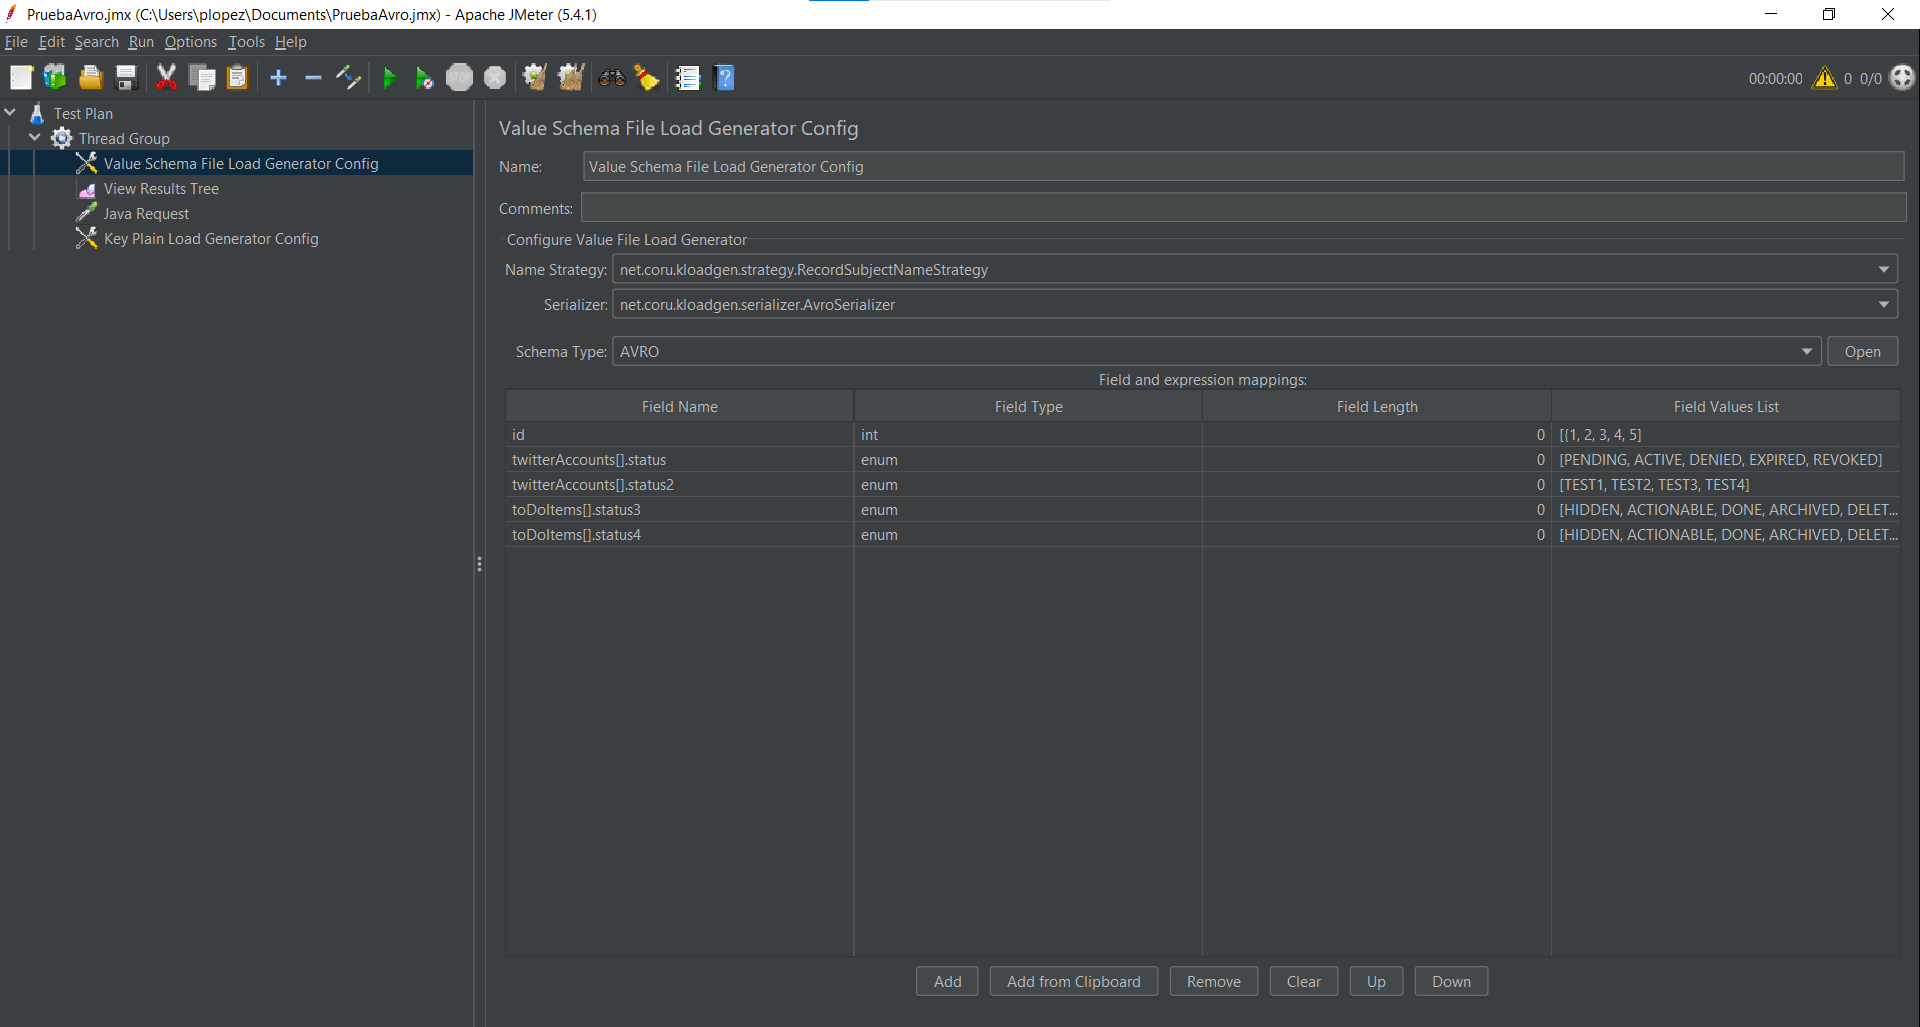
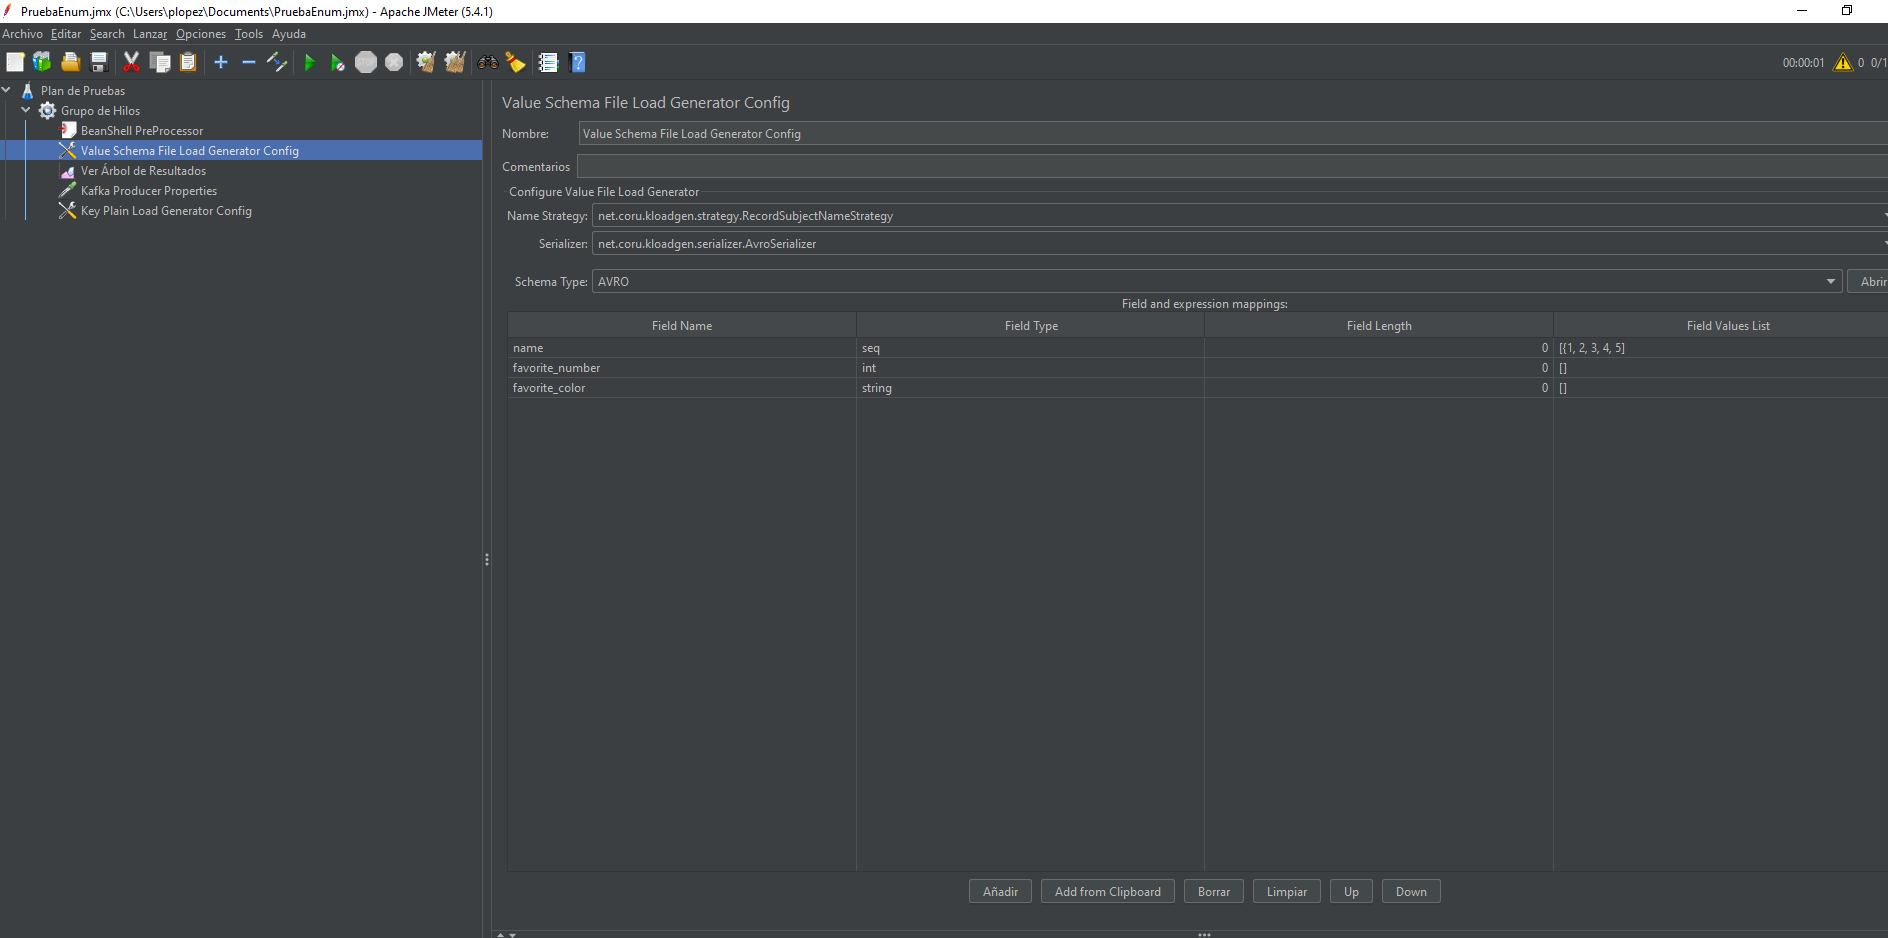
Changes to sequence behaviour

diff --git a/src/main/java/net/coru/kloadgen/randomtool/random/RandomObject.java b/src/main/java/net/coru/kloadgen/randomtool/random/RandomObject.java
@@ -56,105 +56,108 @@ public class RandomObject {
   public Object generateRandom(String fieldType, Integer valueLength, List<String> fieldValueList,
       Map<ConstraintTypeEnum, String> constrains) {
     Object value;
-    if (!fieldValueList.isEmpty() && !StringUtils.isEmpty(fieldValueList.get(0)) && fieldValueList.get(0).charAt(0) == "{".charAt(0)){
-      fieldValueList.set(0, fieldValueList.get(0).substring(1));
-      return generateSequenceForFieldValueList(fieldValueList.get(0), fieldType, fieldValueList, context );
-    }
-    switch (fieldType) {
-      case ValidTypeConstants.STRING:
-        value = getStringValueOrRandom(valueLength, fieldValueList, constrains);
-        break;
-      case ValidTypeConstants.INT:
-        try {
-          value = getIntegerValueOrRandom(valueLength, fieldValueList, constrains).intValueExact();
-        } catch (ArithmeticException exception) {
-          value = Integer.MAX_VALUE;
+    if ("seq".equalsIgnoreCase(fieldType)) {
+      if (!fieldValueList.isEmpty() && '{' == fieldValueList.get(0).charAt(0)) {
+        fieldValueList.set(0, fieldValueList.get(0).substring(1));
+        return generateSequenceForFieldValueList(fieldValueList.get(0), fieldType, fieldValueList, context);
+      }
+      value = generateSeq(fieldValueList.get(0), fieldType, fieldValueList, context);
+    }else {
+        switch (fieldType) {
+          case ValidTypeConstants.STRING:
+            value = getStringValueOrRandom(valueLength, fieldValueList, constrains);
+            break;
+          case ValidTypeConstants.INT:
+            try {
+              value = getIntegerValueOrRandom(valueLength, fieldValueList, constrains).intValueExact();
+            } catch (ArithmeticException exception) {
+              value = Integer.MAX_VALUE;
+            }
+            break;
+          case ValidTypeConstants.LONG:
+            try {
+              value = getIntegerValueOrRandom(valueLength, fieldValueList, constrains).longValueExact();
+            } catch (ArithmeticException exception) {
+              value = Long.MAX_VALUE;
+            }
+            break;
+          case ValidTypeConstants.SHORT:
+            try {
+              value = getIntegerValueOrRandom(valueLength, fieldValueList, constrains).shortValueExact();
+            } catch (ArithmeticException exception) {
+              value = Short.MAX_VALUE;
+            }
+            break;
+          case ValidTypeConstants.DOUBLE:
+            try {
+              value = getDecimalValueOrRandom(valueLength, fieldValueList, constrains).doubleValue();
+            } catch (ArithmeticException exception) {
+              value = Double.MAX_VALUE;
+            }
+            break;
+          case ValidTypeConstants.FLOAT:
+            try {
+              value = getDecimalValueOrRandom(valueLength, fieldValueList, constrains).floatValue();
+            } catch (ArithmeticException exception) {
+              value = Float.MAX_VALUE;
+            }
+            break;
+          case ValidTypeConstants.BYTES:
+            try {
+              value = getIntegerValueOrRandom(valueLength, Collections.emptyList(), Collections.emptyMap()).byteValueExact();
+            } catch (ArithmeticException exception) {
+              value = Byte.MAX_VALUE;
+            }
+            break;
+          case ValidTypeConstants.TIMESTAMP:
+          case ValidTypeConstants.LONG_TIMESTAMP:
+          case ValidTypeConstants.STRING_TIMESTAMP:
+            value = getTimestampValueOrRandom(fieldType, fieldValueList);
+            break;
+          case ValidTypeConstants.UUID:
+            value = getUUIDValueOrRandom(fieldValueList);
+            break;
+          case ValidTypeConstants.BOOLEAN:
+            value = getBooleanValueOrRandom(fieldValueList);
+            break;
+          case ValidTypeConstants.ENUM:
+            value = getEnumValueOrRandom(fieldValueList);
+            break;
+          case ValidTypeConstants.INT_DATE:
+            value = getDateValueOrRandom(fieldValueList);
+            break;
+          case ValidTypeConstants.INT_TIME_MILLIS:
+            value = getTimeMillisValueOrRandom(fieldValueList);
+            break;
+          case ValidTypeConstants.LONG_TIME_MICROS:
+            value = getTimeMicrosValueOrRandom(fieldValueList);
+            break;
+          case ValidTypeConstants.LONG_TIMESTAMP_MILLIS:
+            value = getTimestampMillisValueOrRandom(fieldValueList);
+            break;
+          case ValidTypeConstants.LONG_TIMESTAMP_MICROS:
+            value = getTimestampMicrosValueOrRandom(fieldValueList);
+            break;
+          case ValidTypeConstants.LONG_LOCAL_TIMESTAMP_MILLIS:
+            value = getLocalTimestampMillisValueOrRandom(fieldValueList);
+            break;
+          case ValidTypeConstants.LONG_LOCAL_TIMESTAMP_MICROS:
+            value = getLocalTimestampMicrosValueOrRandom(fieldValueList);
+            break;
+          case ValidTypeConstants.STRING_UUID:
+            value = getUUIDValueOrRandom(fieldValueList);
+            break;
+          case ValidTypeConstants.BYTES_DECIMAL:
+            value = getDecimalValueOrRandom(fieldValueList, constrains);
+            break;
+          case ValidTypeConstants.FIXED_DECIMAL:
+            value = getDecimalValueOrRandom(fieldValueList, constrains);
+            break;
+          default:
+            value = fieldType;
+            break;
         }
-        break;
-      case ValidTypeConstants.LONG:
-        try {
-          value = getIntegerValueOrRandom(valueLength, fieldValueList, constrains).longValueExact();
-        } catch (ArithmeticException exception) {
-          value = Long.MAX_VALUE;
-        }
-        break;
-      case ValidTypeConstants.SHORT:
-        try {
-          value = getIntegerValueOrRandom(valueLength, fieldValueList, constrains).shortValueExact();
-        } catch (ArithmeticException exception) {
-          value = Short.MAX_VALUE;
-        }
-        break;
-      case ValidTypeConstants.DOUBLE:
-        try {
-          value = getDecimalValueOrRandom(valueLength, fieldValueList, constrains).doubleValue();
-        } catch (ArithmeticException exception) {
-          value = Double.MAX_VALUE;
-        }
-        break;
-      case ValidTypeConstants.FLOAT:
-        try {
-          value = getDecimalValueOrRandom(valueLength, fieldValueList, constrains).floatValue();
-        } catch (ArithmeticException exception) {
-          value = Float.MAX_VALUE;
-        }
-        break;
-      case ValidTypeConstants.BYTES:
-        try {
-          value = getIntegerValueOrRandom(valueLength, Collections.emptyList(), Collections.emptyMap()).byteValueExact();
-        } catch (ArithmeticException exception) {
-          value = Byte.MAX_VALUE;
-        }
-        break;
-      case ValidTypeConstants.TIMESTAMP:
-      case ValidTypeConstants.LONG_TIMESTAMP:
-      case ValidTypeConstants.STRING_TIMESTAMP:
-        value = getTimestampValueOrRandom(fieldType, fieldValueList);
-        break;
-      case ValidTypeConstants.UUID:
-        value = getUUIDValueOrRandom(fieldValueList);
-        break;
-      case ValidTypeConstants.BOOLEAN:
-        value = getBooleanValueOrRandom(fieldValueList);
-        break;
-      case ValidTypeConstants.ENUM:
-        value = getEnumValueOrRandom(fieldValueList);
-        break;
-      case ValidTypeConstants.INT_DATE:
-        value = getDateValueOrRandom(fieldValueList);
-        break;
-      case ValidTypeConstants.INT_TIME_MILLIS:
-        value = getTimeMillisValueOrRandom(fieldValueList);
-        break;
-      case ValidTypeConstants.LONG_TIME_MICROS:
-        value = getTimeMicrosValueOrRandom(fieldValueList);
-        break;
-      case ValidTypeConstants.LONG_TIMESTAMP_MILLIS:
-        value = getTimestampMillisValueOrRandom(fieldValueList);
-        break;
-      case ValidTypeConstants.LONG_TIMESTAMP_MICROS:
-        value = getTimestampMicrosValueOrRandom(fieldValueList);
-        break;
-      case ValidTypeConstants.LONG_LOCAL_TIMESTAMP_MILLIS:
-        value = getLocalTimestampMillisValueOrRandom(fieldValueList);
-        break;
-      case ValidTypeConstants.LONG_LOCAL_TIMESTAMP_MICROS:
-        value = getLocalTimestampMicrosValueOrRandom(fieldValueList);
-        break;
-      case ValidTypeConstants.STRING_UUID:
-        value = getUUIDValueOrRandom(fieldValueList);
-        break;
-      case ValidTypeConstants.BYTES_DECIMAL:
-        value = getDecimalValueOrRandom(fieldValueList, constrains);
-        break;
-      case ValidTypeConstants.FIXED_DECIMAL:
-        value = getDecimalValueOrRandom(fieldValueList, constrains);
-        break;
-      default:
-        value = fieldType;
-        break;
-    }
-
+      }
     return value;
   }
 

diff --git a/src/main/java/net/coru/kloadgen/processor/SchemaProcessorLib.java b/src/main/java/net/coru/kloadgen/processor/SchemaProcessorLib.java
@@ -150,15 +150,15 @@ public abstract class SchemaProcessorLib {
 
         var value = new HashMap<>(mapSize);
         if ("seq".equals(fieldType)) {
+            if (!fieldValuesList.isEmpty() && '{' == fieldValuesList.get(0).charAt(0)) {
+                parameterList.set(0, parameterList.get(0).substring(1));
+                value.put(generateMapKey(), randomObject.generateSequenceForFieldValueList(parameterList.get(0), fieldType, parameterList, context));
+            }
             for (int i = mapSize; i > 0; i--) {
                 value.put(generateMapKey(),
                         randomObject.generateSeq(fieldName, fieldType, parameterList, context));
             }
-        } else  if (!fieldValuesList.isEmpty() && !StringUtils.isEmpty(fieldValuesList.get(0)) && fieldValuesList.get(0).charAt(0) == "{".charAt(0)){
-            parameterList.set(0, parameterList.get(0).substring(1));
-            value.put(generateMapKey(),randomObject.generateSequenceForFieldValueList(parameterList.get(0), fieldType, parameterList, context ));
-        }
-        else {
+        } else {
             return randomMap.generateMap(fieldType, mapSize, parameterList, fieldValueLength, arraySize, Collections.emptyMap());
         }
 
@@ -173,15 +173,16 @@ public abstract class SchemaProcessorLib {
                         JMeterContextService.getContext().getVariables().get(fieldValue.substring(2, fieldValue.length() - 1)) :
                         fieldValue
         );
-
         List value = new ArrayList<>(arraySize);
         if ("seq".equals(fieldType)) {
-            for (int i = arraySize; i > 0 ; i--) {
-                value.add(randomObject.generateSeq(fieldName, fieldType, parameterList, context));
+            if (!fieldValuesList.isEmpty() && '{' == fieldValuesList.get(0).charAt(0)) {
+                parameterList.set(0, parameterList.get(0).substring(1));
+                value.add(randomObject.generateSequenceForFieldValueList(parameterList.get(0), fieldType, parameterList, context));
+            } else {
+                for (int i = arraySize; i > 0; i--) {
+                    value.add(randomObject.generateSeq(fieldName, fieldType, parameterList, context));
+                }
             }
-        } else  if (!fieldValuesList.isEmpty() && !StringUtils.isEmpty(fieldValuesList.get(0)) && fieldValuesList.get(0).charAt(0) == "{".charAt(0)){
-            parameterList.set(0, parameterList.get(0).substring(1));
-            value.add(randomObject.generateSequenceForFieldValueList(parameterList.get(0), fieldType, parameterList, context ));
         } else {
             value = (ArrayList) randomArray.generateArray(fieldType, valueLength, parameterList, arraySize, Collections.emptyMap());
         }

diff --git a/src/main/java/net/coru/kloadgen/randomtool/generator/AvroGeneratorTool.java b/src/main/java/net/coru/kloadgen/randomtool/generator/AvroGeneratorTool.java
@@ -62,9 +62,6 @@ public class AvroGeneratorTool {
     Object value;
     if (ENUM == field.schema().getType()) {
       value = getEnumOrGenerate(fieldType, field.schema(), parameterList);
-    }else if (!fieldValuesList.isEmpty() && fieldValuesList.get(0).charAt(0) == "{".charAt(0) ) {
-      fieldValuesList.set(0, fieldValuesList.get(0).substring(1));
-      return generateSequenceForFieldValueList(fieldValuesList.get(0), fieldType, fieldValuesList, context);
     }else if (UNION == field.schema().getType()) {
       Schema safeSchema = getRecordUnion(field.schema().getTypes());
       if (differentTypesNeedCast(fieldType, safeSchema.getType())) {
@@ -80,7 +77,12 @@ public class AvroGeneratorTool {
         }
       }
     } else if ("seq".equalsIgnoreCase(fieldType)) {
-      value = randomObject.generateSeq(field.name(), field.schema().getType().getName(), parameterList, context);
+      if (!fieldValuesList.isEmpty() && '{' == fieldValuesList.get(0).charAt(0)) {
+        fieldValuesList.set(0, fieldValuesList.get(0).substring(1));
+        return generateSequenceForFieldValueList(fieldValuesList.get(0), fieldType, fieldValuesList, context);
+      }else {
+        value = randomObject.generateSeq(field.name(), field.schema().getType().getName(), parameterList, context);
+      }
     } else if (differentTypesNeedCast(fieldType, field.schema().getType())) {
 
       value = randomObject.generateRandom(fieldType, valueLength, parameterList, constrains);
@@ -151,7 +153,7 @@ public class AvroGeneratorTool {
         List<String> enumValueList = schema.getEnumSymbols();
         value = new GenericData.EnumSymbol(schema, enumValueList.get(RandomUtils.nextInt(0, enumValueList.size())));
       } else {
-        if (parameterList.get(0).charAt(0) == "{".charAt(0)) {
+        if ('{'== parameterList.get(0).charAt(0)) {
           parameterList.set(0, parameterList.get(0).substring(1));
           value = new GenericData.EnumSymbol(schema, generateSequenceForFieldValueList(parameterList.get(0),fieldType,parameterList,context));
         } else {

diff --git a/README.md b/README.md
@@ -276,7 +276,7 @@ Example:
 #### Special types
 
 There are two special types, first, a mix of map and array, ( * )-map-array which will generate an array of maps. This special type have a way to specify the size of both collections. The size of the array will be placed in braces that do not have colon "[8]", the size of the map will be located to the left of the colon "[8:]" in the braces that have it. The resulting structure follows this pattern: ArrayOfMap[ArraySize][MapSize:]. Secondly, the other special type is the (*)-array-map which will generate a map of arrays, it follows this pattern: MapOfArray[MapSize:][ArraySize]. 
-#### Special functions
+## Special functions
 
 | Type | Details |  Returns |
 |----------|:-------:|:--------:|
@@ -286,12 +286,14 @@ In the sequence generator you can specify an starting value just put it in the F
 others will be not consider.
 Other values will be considered Constants for this field and will be converted to the Field Type. Keep that in mind to avoid Cast Exceptions
 
-## Generation of sequences
-Since 3.5.4 version KloadGen has added support for sequences. Type **"{"** in the FieldValueList to get the data processed as a sequence. For example in this picture:
+Since 3.6.3 version KloadGen will require to Type both **"seq"** in Field Type and **"{"** the FieldValueList if you want to create a 
+custom sequence of values. **In future versions** typing **"{"** in Field Value List will not be required and supported.
+
+Here we have an example of how KloadGen generates Sequences:
 
 ![Sequence Generator](/Sequence_Generator.png)
 
-The field id will be generated as sequences from 1 to 5. 
+The field name will be generated as sequences from 1 to 5.
 
 ### Kafka Headers Configuration
 
